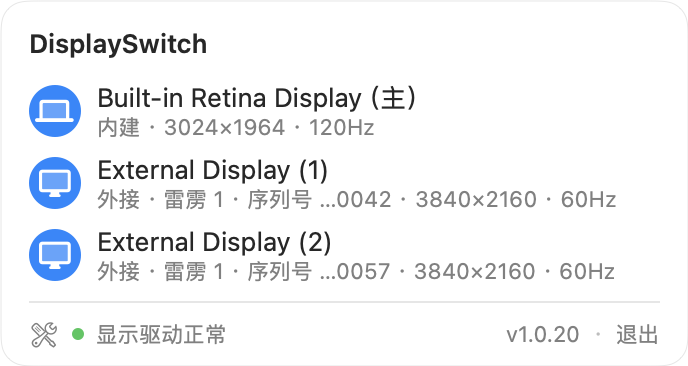
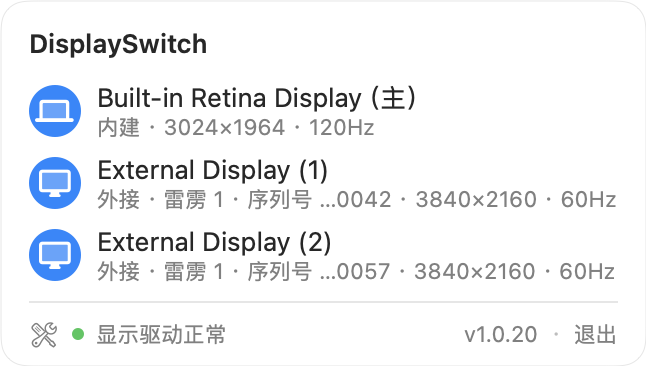
💄 候选版 1.0.21:去掉行尾的锁,面板右边不再空一截
- 他问宽度是不是退出按钮撑的——不是:底栏本身只要约 216pt;撑宽的是每行行尾的锁位,锁平时透明却一直占位,
  最长那行文字右边空出 8pt 间距 + 锁宽,比左边宽一截
- 他选了「不要行内的锁」:被锁的就是唯一亮着的那行,顶部提示写原因,再点它提示照样抖一下
- 文字右边现留 14pt,与左边对称;说明行、顶部提示、退出三者右端对齐。演示截图宽 344pt → 323pt
- 测试 111 项全过;README、设计文档、截图同步

diff --git a/Sources/DisplaySwitchUI/PanelView.swift b/Sources/DisplaySwitchUI/PanelView.swift
@@ -32,7 +32,7 @@ public struct PanelView: View {
                         .frame(maxWidth: .infinity).padding(.vertical, 18)
                 }
                 ForEach(model.items, id: \.id) { item in
-                    DisplayRow(item: item, supported: model.supported, lockedTaps: model.lockedTaps) { model.toggle(item.id) }
+                    DisplayRow(item: item, supported: model.supported) { model.toggle(item.id) }
                 }
             }
             // 行与面板边缘的间距照 Wi-Fi 菜单悬停底的实测值(7pt,macOS 27)。
@@ -54,7 +54,7 @@ public struct PanelView: View {
                 .font(.system(size: 13, weight: .semibold))
                 .foregroundStyle(Color(nsColor: .controlTextColor))
             Spacer(minLength: 16)
-            // 提示区(他的设计):平时空着,只剩最后一块亮着被锁住时写原因。与行里的锁同时、直接出现和消失,
+            // 提示区(他的设计):平时空着,只剩最后一块亮着被锁住时写原因。直接出现和消失,
             // 不淡入淡出——系统菜单里的内容变化都是直接到位的(见 `StatusIcon`)。
             // 文字用系统菜单副标题的样式(11pt、`secondaryLabelColor`),与每行的说明行一致;
             // 锁用 SF Symbols 跟随文字的默认大小,与汉字同高(7.5×10.5pt 对 10pt)。曾用更浅的次要色、锁缩小一号,
@@ -180,19 +180,20 @@ private struct DeveloperMenu: View {
 
 /// 一块屏一行,**整行就是开关**:点一下就切换,没有任何开关控件(他的要求)。
 /// 状态由行首圆形图标表达,说明行写「已关闭」——不只靠颜色。
-/// 被锁住时行尾一把锁,原因写在顶部提示区;这一行切不了,但点了要有反应:锁与顶部提示一起抖一下
-/// (他的要求)。所以它不设成不可点,只是鼠标经过时不给悬停底——悬停底表示「点了会切换」。
+/// 被锁住时原因写在顶部提示区(带锁);这一行切不了,但点了要有反应:顶部提示抖一下(他的要求)。
+/// 所以它不设成不可点,只是鼠标经过时不给悬停底——悬停底表示「点了会切换」。
+/// 行尾不放锁(他的决定,2026-10-23):锁平时透明却一直占位(锁出现时面板才不变宽),最长那行文字右边就空出
+/// 8pt 间距 + 锁宽,比左边宽一截,他两次指出右边空白。被锁的就是唯一亮着的那行,顶部提示已说清原因。
 ///
 /// 量出来的规格(macOS 27):
-/// - 照 Wi-Fi 菜单:圆离面板边缘 14pt,圆到文字 8pt;名字 13pt 常规体、控件文字色(曾用中等字重,偏粗);
-///   锁是 13pt 的 `lock.fill`、次要色,尺寸、墨量、颜色三项都与 Wi-Fi 的锁吻合(曾用 11pt,偏小)。
+/// - 照 Wi-Fi 菜单:圆离面板边缘 14pt,圆到文字 8pt;名字 13pt 常规体、控件文字色(曾用中等字重,偏粗)。
+///   文字右边也留 14pt(行内 7pt + 行与面板 7pt),与左边对称。
 /// - 照系统菜单项的「副标题」(`NSMenuItem.subtitle`,弹一个临时菜单实测):两行字的行高 36pt,
 ///   上下两行顶到顶 15pt,副标题用 `secondaryLabelColor`。曾是 46pt、行间多 2pt、说明行偏浅,比原生松散。
 /// - 照蓝牙菜单(他让我开关蓝牙键盘那一行来对照,2026-10-23):按下时整行内容变淡,见 `RowButtonStyle`。
 private struct DisplayRow: View {
     let item: DisplayMenuItem
     let supported: Bool
-    let lockedTaps: Int
     let toggle: () -> Void
 
     private var locked: Bool { item.isOn && !item.canToggleOff }
@@ -222,14 +223,7 @@ private struct DisplayRow: View {
                     .foregroundStyle(Color(nsColor: .secondaryLabelColor))
                 }
                 .lineLimit(1)
-                // 文字列撑满,锁靠右;锁平时透明但一直占位(锁出现时面板不变宽)。最长那行的文字与锁只隔行内统一的 8pt——
-                // 曾在中间垫一个至少 12pt 的空白,加上两侧间距共 28pt,面板右边空出一大块(他指出「右边那么多空白干什么」)。
-                .frame(maxWidth: .infinity, alignment: .leading)
-                Image(systemName: "lock.fill")
-                    .font(.system(size: 13))
-                    .foregroundStyle(.secondary)
-                    .opacity(locked ? 1 : 0)
-                    .shakes(on: lockedTaps)
+                .frame(maxWidth: .infinity, alignment: .leading)    // 撑满整行:短的行也靠左,悬停底铺满
             }
             .padding(.horizontal, 7)
             .frame(height: 36)

diff --git a/README.md b/README.md
@@ -27,7 +27,7 @@ DisplaySwitch 只做这一件事，但把它做到不会出事：开关任意一
 - 点菜单栏图标弹出面板，**每块屏一张卡片**（含内建屏）：内建 / 外接、接在 Mac 的哪个口（如「雷雳 1」）、分辨率与刷新率。
 - **点整行就开 / 关**，没有小开关要瞄准：开着的屏行首是蓝色实心圆，关着的是浅灰圆、说明行写「已关闭」。
 - 外观照 macOS 自己的 Wi-Fi 菜单：系统玻璃材质，图标、文字、锁、悬停底与它逐像素对照过；macOS 27 上打开面板时菜单栏图标也有系统的高亮底。
-- **只剩最后一块亮着时，顶部直接写原因**：「至少要保留一块屏幕点亮」，被锁的那行带一把小锁；再点它，锁和提示会抖一下。
+- **只剩最后一块亮着时，顶部直接写原因**：「至少要保留一块屏幕点亮」，被锁的就是唯一亮着的那行；再点它，提示会抖一下。
 - 底部状态栏写着**显示驱动是否正常**：macOS 27.0 的雷雳显示驱动会卡死（卡死时拔坞会留下残影屏，严重时内核崩溃），这里能提前看到——绿点正常，橙点卡死或有残影屏。
 - 点它是**开发者工具**：驱动检查的依据、全黑救援的状态与上次触发时间、打开救援日志、复制诊断信息，平时不占面板地方。
 - 显示名同系统设置：同型号多块屏带系统给的 `(1)(2)`，关掉其中一块时号也不消失。外接屏的说明行写显示器自带序列号的尾号（如「序列号 …1A27」），换接口（包括 DP 换 HDMI）也不变，认得出是哪一台。行的顺序按序列号排，开关屏、换接口都不跳。
